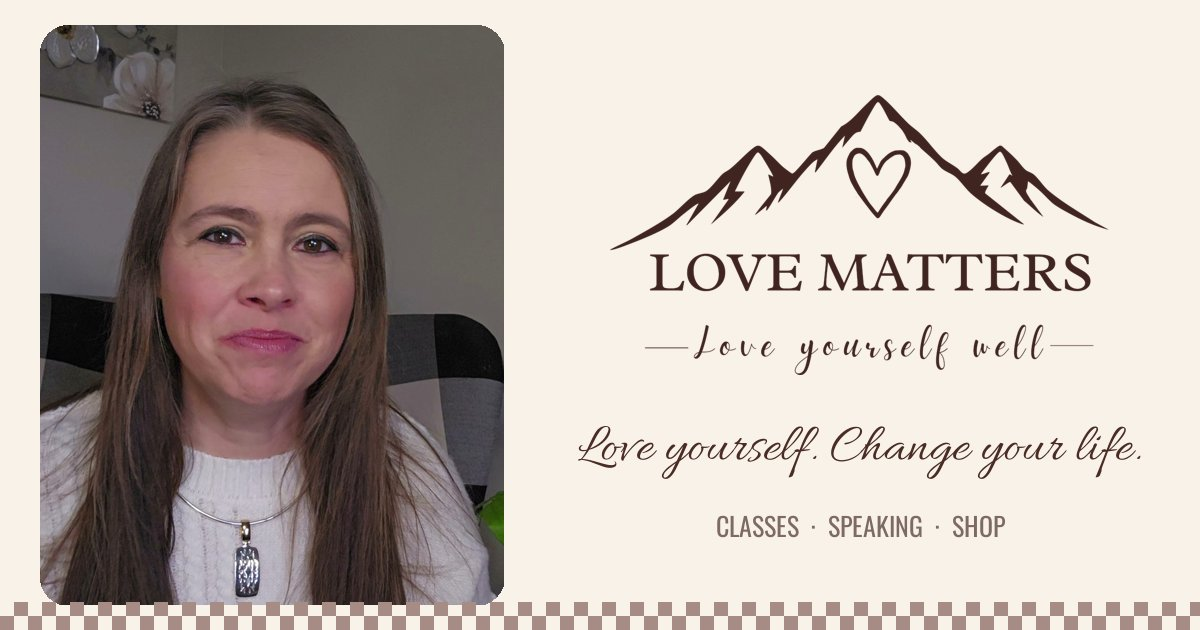
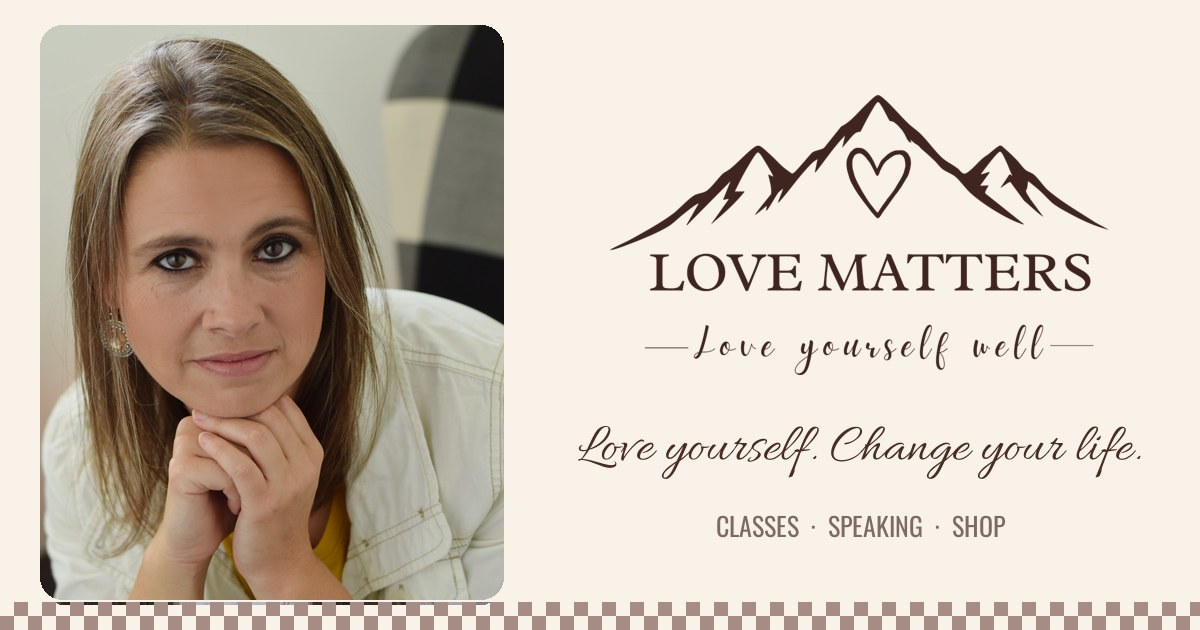
Link preview: Kelly's new photo

diff --git a/speaking/index.html b/speaking/index.html
@@ -1,5 +1,5 @@
 <!doctype html><html lang="en"><head><meta charset="utf-8"><meta name="viewport" content="width=device-width,initial-scale=1">
-<title>Book Kelly Cazzell to Speak — Love Matters</title><meta name="description" content="Book Kelly Cazzell, creator of Love Matters, to speak at your women&#x27;s event, retreat or church. Signature talk: Love Yourself…Change Your Life."><meta name="robots" content="noindex,nofollow"><meta property="og:type" content="website"><meta property="og:title" content="Book Kelly Cazzell to Speak — Love Matters"><meta property="og:description" content="Book Kelly Cazzell, creator of Love Matters, to speak at your women&#x27;s event, retreat or church. Signature talk: Love Yourself…Change Your Life."><meta property="og:url" content="https://handleditforyou.com/love-matters/speaking/"><meta property="og:image" content="https://handleditforyou.com/love-matters/img/share.jpg"><meta property="og:image:width" content="1200"><meta property="og:image:height" content="630"><meta name="twitter:card" content="summary_large_image"><link rel="canonical" href="https://handleditforyou.com/love-matters/speaking/">
+<title>Book Kelly Cazzell to Speak — Love Matters</title><meta name="description" content="Book Kelly Cazzell, creator of Love Matters, to speak at your women&#x27;s event, retreat or church. Signature talk: Love Yourself…Change Your Life."><meta name="robots" content="noindex,nofollow"><meta property="og:type" content="website"><meta property="og:title" content="Book Kelly Cazzell to Speak — Love Matters"><meta property="og:description" content="Book Kelly Cazzell, creator of Love Matters, to speak at your women&#x27;s event, retreat or church. Signature talk: Love Yourself…Change Your Life."><meta property="og:url" content="https://handleditforyou.com/love-matters/speaking/"><meta property="og:image" content="https://handleditforyou.com/love-matters/img/share.jpg?v=2"><meta property="og:image:width" content="1200"><meta property="og:image:height" content="630"><meta name="twitter:card" content="summary_large_image"><link rel="canonical" href="https://handleditforyou.com/love-matters/speaking/">
 <link rel="icon" href="../img/logo-brown.png"><link rel="preconnect" href="https://fonts.googleapis.com"><link rel="preconnect" href="https://fonts.gstatic.com" crossorigin><link href="https://fonts.googleapis.com/css2?family=Allura&family=Libre+Baskerville:ital,wght@0,400;0,700;1,400&family=Oswald:wght@300;400&family=Lato:wght@400;700&display=swap" rel="stylesheet"><link rel="stylesheet" href="../site.css"></head><body>
 <header><div class="wrap"><a class="brand" href="../"><img src="../img/logo-brown.png" alt="Love Matters — Love yourself well"></a><nav><a href="../speaking/" class="on">Speaking</a><a href="../classes/" class="">Love Matters Classes</a><a href="../shop/" class="">Shop</a></nav></div></header>
 <div class="gingham" aria-hidden="true"></div>

diff --git a/classes/index.html b/classes/index.html
@@ -1,5 +1,5 @@
 <!doctype html><html lang="en"><head><meta charset="utf-8"><meta name="viewport" content="width=device-width,initial-scale=1">
-<title>Love Matters Classes — Love Yourself Well</title><meta name="description" content="Free Love Yourself Well Check-In, the $49 14-day self-paced Love Matters class, and the Live on Purpose small group with Kelly Cazzell."><meta name="robots" content="noindex,nofollow"><meta property="og:type" content="website"><meta property="og:title" content="Love Matters Classes — Love Yourself Well"><meta property="og:description" content="Free Love Yourself Well Check-In, the $49 14-day self-paced Love Matters class, and the Live on Purpose small group with Kelly Cazzell."><meta property="og:url" content="https://handleditforyou.com/love-matters/classes/"><meta property="og:image" content="https://handleditforyou.com/love-matters/img/share.jpg"><meta property="og:image:width" content="1200"><meta property="og:image:height" content="630"><meta name="twitter:card" content="summary_large_image"><link rel="canonical" href="https://handleditforyou.com/love-matters/classes/">
+<title>Love Matters Classes — Love Yourself Well</title><meta name="description" content="Free Love Yourself Well Check-In, the $49 14-day self-paced Love Matters class, and the Live on Purpose small group with Kelly Cazzell."><meta name="robots" content="noindex,nofollow"><meta property="og:type" content="website"><meta property="og:title" content="Love Matters Classes — Love Yourself Well"><meta property="og:description" content="Free Love Yourself Well Check-In, the $49 14-day self-paced Love Matters class, and the Live on Purpose small group with Kelly Cazzell."><meta property="og:url" content="https://handleditforyou.com/love-matters/classes/"><meta property="og:image" content="https://handleditforyou.com/love-matters/img/share.jpg?v=2"><meta property="og:image:width" content="1200"><meta property="og:image:height" content="630"><meta name="twitter:card" content="summary_large_image"><link rel="canonical" href="https://handleditforyou.com/love-matters/classes/">
 <link rel="icon" href="../img/logo-brown.png"><link rel="preconnect" href="https://fonts.googleapis.com"><link rel="preconnect" href="https://fonts.gstatic.com" crossorigin><link href="https://fonts.googleapis.com/css2?family=Allura&family=Libre+Baskerville:ital,wght@0,400;0,700;1,400&family=Oswald:wght@300;400&family=Lato:wght@400;700&display=swap" rel="stylesheet"><link rel="stylesheet" href="../site.css"></head><body>
 <header><div class="wrap"><a class="brand" href="../"><img src="../img/logo-brown.png" alt="Love Matters — Love yourself well"></a><nav><a href="../speaking/" class="">Speaking</a><a href="../classes/" class="on">Love Matters Classes</a><a href="../shop/" class="">Shop</a></nav></div></header>
 <div class="gingham" aria-hidden="true"></div>

diff --git a/index.html b/index.html
@@ -1,5 +1,5 @@
 <!doctype html><html lang="en"><head><meta charset="utf-8"><meta name="viewport" content="width=device-width,initial-scale=1">
-<title>Love Matters with Kelly Cazzell — Love yourself well</title><meta name="description" content="Love Matters helps women learn to love themselves well and live on purpose. Classes, speaking and shirts by Kelly Cazzell."><meta name="robots" content="noindex,nofollow"><meta property="og:type" content="website"><meta property="og:title" content="Love Matters with Kelly Cazzell — Love yourself well"><meta property="og:description" content="Love Matters helps women learn to love themselves well and live on purpose. Classes, speaking and shirts by Kelly Cazzell."><meta property="og:url" content="https://handleditforyou.com/love-matters/"><meta property="og:image" content="https://handleditforyou.com/love-matters/img/share.jpg"><meta property="og:image:width" content="1200"><meta property="og:image:height" content="630"><meta name="twitter:card" content="summary_large_image"><link rel="canonical" href="https://handleditforyou.com/love-matters/">
+<title>Love Matters with Kelly Cazzell — Love yourself well</title><meta name="description" content="Love Matters helps women learn to love themselves well and live on purpose. Classes, speaking and shirts by Kelly Cazzell."><meta name="robots" content="noindex,nofollow"><meta property="og:type" content="website"><meta property="og:title" content="Love Matters with Kelly Cazzell — Love yourself well"><meta property="og:description" content="Love Matters helps women learn to love themselves well and live on purpose. Classes, speaking and shirts by Kelly Cazzell."><meta property="og:url" content="https://handleditforyou.com/love-matters/"><meta property="og:image" content="https://handleditforyou.com/love-matters/img/share.jpg?v=2"><meta property="og:image:width" content="1200"><meta property="og:image:height" content="630"><meta name="twitter:card" content="summary_large_image"><link rel="canonical" href="https://handleditforyou.com/love-matters/">
 <link rel="icon" href="img/logo-brown.png"><link rel="preconnect" href="https://fonts.googleapis.com"><link rel="preconnect" href="https://fonts.gstatic.com" crossorigin><link href="https://fonts.googleapis.com/css2?family=Allura&family=Libre+Baskerville:ital,wght@0,400;0,700;1,400&family=Oswald:wght@300;400&family=Lato:wght@400;700&display=swap" rel="stylesheet"><link rel="stylesheet" href="site.css"></head><body>
 <header><div class="wrap"><a class="brand" href=""><img src="img/logo-brown.png" alt="Love Matters — Love yourself well"></a><nav><a href="speaking/" class="">Speaking</a><a href="classes/" class="">Love Matters Classes</a><a href="shop/" class="">Shop</a></nav></div></header>
 <div class="gingham" aria-hidden="true"></div>

diff --git a/shop/index.html b/shop/index.html
@@ -1,5 +1,5 @@
 <!doctype html><html lang="en"><head><meta charset="utf-8"><meta name="viewport" content="width=device-width,initial-scale=1">
-<title>Shop Love Matters Shirts</title><meta name="description" content="Order Love Matters shirts by Kelly Cazzell: tees and sweatshirts in Pepper, Washed Denim, Wine and Ivory. Love yourself well."><meta name="robots" content="noindex,nofollow"><meta property="og:type" content="website"><meta property="og:title" content="Shop Love Matters Shirts"><meta property="og:description" content="Order Love Matters shirts by Kelly Cazzell: tees and sweatshirts in Pepper, Washed Denim, Wine and Ivory. Love yourself well."><meta property="og:url" content="https://handleditforyou.com/love-matters/shop/"><meta property="og:image" content="https://handleditforyou.com/love-matters/img/share.jpg"><meta property="og:image:width" content="1200"><meta property="og:image:height" content="630"><meta name="twitter:card" content="summary_large_image"><link rel="canonical" href="https://handleditforyou.com/love-matters/shop/">
+<title>Shop Love Matters Shirts</title><meta name="description" content="Order Love Matters shirts by Kelly Cazzell: tees and sweatshirts in Pepper, Washed Denim, Wine and Ivory. Love yourself well."><meta name="robots" content="noindex,nofollow"><meta property="og:type" content="website"><meta property="og:title" content="Shop Love Matters Shirts"><meta property="og:description" content="Order Love Matters shirts by Kelly Cazzell: tees and sweatshirts in Pepper, Washed Denim, Wine and Ivory. Love yourself well."><meta property="og:url" content="https://handleditforyou.com/love-matters/shop/"><meta property="og:image" content="https://handleditforyou.com/love-matters/img/share.jpg?v=2"><meta property="og:image:width" content="1200"><meta property="og:image:height" content="630"><meta name="twitter:card" content="summary_large_image"><link rel="canonical" href="https://handleditforyou.com/love-matters/shop/">
 <link rel="icon" href="../img/logo-brown.png"><link rel="preconnect" href="https://fonts.googleapis.com"><link rel="preconnect" href="https://fonts.gstatic.com" crossorigin><link href="https://fonts.googleapis.com/css2?family=Allura&family=Libre+Baskerville:ital,wght@0,400;0,700;1,400&family=Oswald:wght@300;400&family=Lato:wght@400;700&display=swap" rel="stylesheet"><link rel="stylesheet" href="../site.css"></head><body>
 <header><div class="wrap"><a class="brand" href="../"><img src="../img/logo-brown.png" alt="Love Matters — Love yourself well"></a><nav><a href="../speaking/" class="">Speaking</a><a href="../classes/" class="">Love Matters Classes</a><a href="../shop/" class="on">Shop</a></nav></div></header>
 <div class="gingham" aria-hidden="true"></div>

diff --git a/free-call/index.html b/free-call/index.html
@@ -1,5 +1,5 @@
 <!doctype html><html lang="en"><head><meta charset="utf-8"><meta name="viewport" content="width=device-width,initial-scale=1">
-<title>Book a Free 20-Minute Call with Kelly — Love Matters</title><meta name="description" content="Book a free, no-pressure 20-minute call with Kelly Cazzell of Love Matters."><meta name="robots" content="noindex,nofollow"><meta property="og:type" content="website"><meta property="og:title" content="Book a Free 20-Minute Call with Kelly — Love Matters"><meta property="og:description" content="Book a free, no-pressure 20-minute call with Kelly Cazzell of Love Matters."><meta property="og:url" content="https://handleditforyou.com/love-matters/free-call/"><meta property="og:image" content="https://handleditforyou.com/love-matters/img/share.jpg"><meta property="og:image:width" content="1200"><meta property="og:image:height" content="630"><meta name="twitter:card" content="summary_large_image"><link rel="canonical" href="https://handleditforyou.com/love-matters/free-call/">
+<title>Book a Free 20-Minute Call with Kelly — Love Matters</title><meta name="description" content="Book a free, no-pressure 20-minute call with Kelly Cazzell of Love Matters."><meta name="robots" content="noindex,nofollow"><meta property="og:type" content="website"><meta property="og:title" content="Book a Free 20-Minute Call with Kelly — Love Matters"><meta property="og:description" content="Book a free, no-pressure 20-minute call with Kelly Cazzell of Love Matters."><meta property="og:url" content="https://handleditforyou.com/love-matters/free-call/"><meta property="og:image" content="https://handleditforyou.com/love-matters/img/share.jpg?v=2"><meta property="og:image:width" content="1200"><meta property="og:image:height" content="630"><meta name="twitter:card" content="summary_large_image"><link rel="canonical" href="https://handleditforyou.com/love-matters/free-call/">
 <link rel="icon" href="../img/logo-brown.png"><link rel="preconnect" href="https://fonts.googleapis.com"><link rel="preconnect" href="https://fonts.gstatic.com" crossorigin><link href="https://fonts.googleapis.com/css2?family=Allura&family=Libre+Baskerville:ital,wght@0,400;0,700;1,400&family=Oswald:wght@300;400&family=Lato:wght@400;700&display=swap" rel="stylesheet"><link rel="stylesheet" href="../site.css"></head><body>
 <header><div class="wrap"><a class="brand" href="../"><img src="../img/logo-brown.png" alt="Love Matters — Love yourself well"></a><nav><a href="../speaking/" class="">Speaking</a><a href="../classes/" class="">Love Matters Classes</a><a href="../shop/" class="">Shop</a></nav></div></header>
 <div class="gingham" aria-hidden="true"></div>
